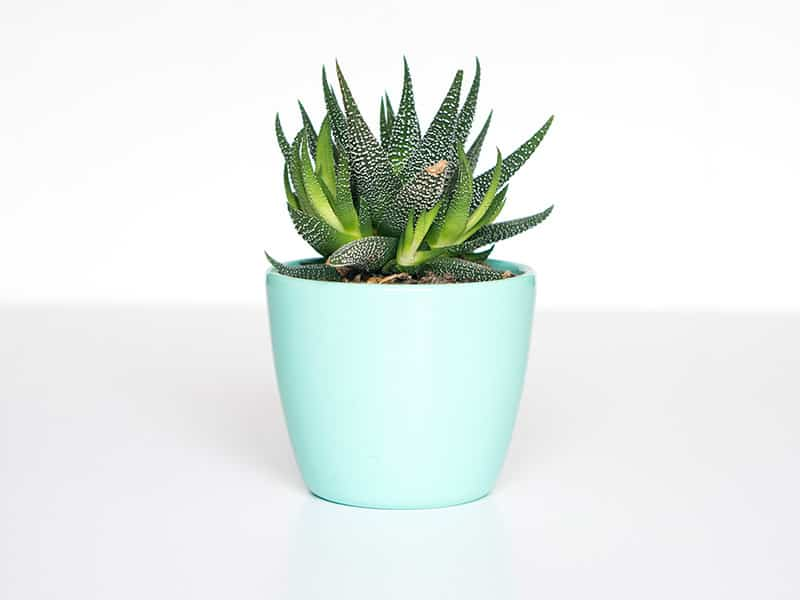
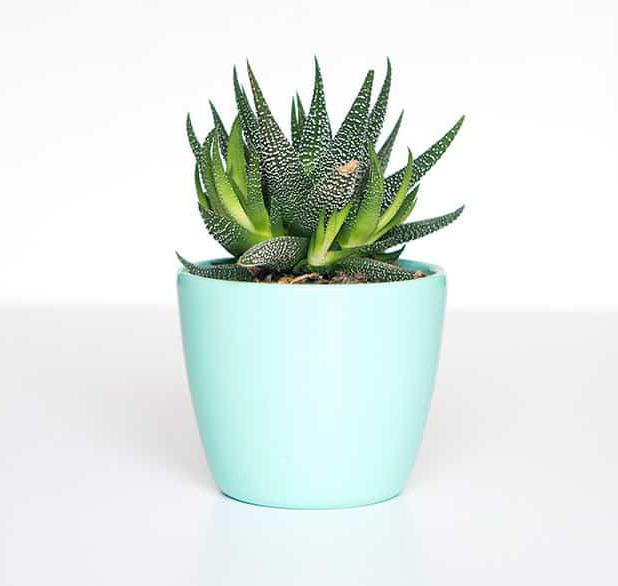
adding styling to directory menu

Changed region(s): [[0.2767, 0.0922, 0.7686, 0.8908]]

diff --git a/src/components/hompage/directory-menu/directory-menu.styles.js b/src/components/hompage/directory-menu/directory-menu.styles.js
@@ -9,28 +9,66 @@ export const DirectoryMenuCont = styled.div`
   justify-content: center;
   align-items: center;
 
+  & .half-container-right {
+    width: 50%;
+    height: 100%;
+
+    &:hover {
+
+      width: 70%;
+      transition: all 30s cubic-bezier(0.25, 0.45, 0.45, 0.95);
+
+      .half-container-left {
+        width:  30%;
+        transition: all 30s cubic-bezier(0.25, 0.45, 0.45, 0.95);
+      }
+
+
+      .container-right {
+        width: 600px;
+        transition: all 30s cubic-bezier(0.25, 0.45, 0.45, 0.95);
+      }
+      
+      .container-left {
+        width: 1px;
+        transition: all 30s cubic-bezier(0.25, 0.45, 0.45, 0.95);
+      }
+
+    
+    }
+  }
+
+  & .half-container-left {
+    width: 50%;
+    height: 100%;
+
+    &:hover {
+
+      .container-left {
+        width: 600px;
+        transition: all 30s cubic-bezier(0.25, 0.45, 0.45, 0.95);
+      }
+
+      .container-right {
+        width: 1px;
+        transition: all 30s cubic-bezier(0.25, 0.45, 0.45, 0.95);
+      }
+
+
+    }
+  }
 `;
 
-export const BackgroundImageCont = styled.div`
+export const BackgroundImageCont = styled.img`
   height: 100%;
-  width: 35%;
+  /* width: 36vw; */
   overflow: hidden;
-  background-position: center;
+  ${({side}) => side}: 0;
+  position: absolute;
+  width: 600px;
+  /* background-position: ${({side}) => side};
   background-size: cover;
-  background-image: ${({ imageUrl }) => `url(${imageUrl})`};
-
-
-  /* &:hover {
-    
-    &.background-image {
-      transform: scale(1.01);
-      transition: transform 20s cubic-bezier(0.25, 0.45, 0.45, 0.95);
-    }
-
-    &.content {
-      opacity: 0.9;
-    }
-  } */
+  background-image: ${({ imageUrl }) => `url(${imageUrl})`}; */
 `;
 
 export const ContentCont = styled.div`
@@ -59,3 +97,12 @@ export const SubtitleCont = styled.span`
   font-size: 16px;
   margin-bottom: 20px;
 `;
+
+export const BackgroundImageContainersCont = styled.div`
+  width: 300px;
+  height: 100%;
+  overflow: hidden;
+  position: relative;
+  margin-${({side}) => side}: auto;
+`;
+

diff --git a/src/components/hompage/directory-menu/directory-menu.component.jsx b/src/components/hompage/directory-menu/directory-menu.component.jsx
@@ -2,27 +2,35 @@ import React from 'react';
 
 import CustomButton from '../../custom-button/custom-button.component';
 
-import indoor from '../../../assets/half-potted-plant53.png';
-import outdoor from '../../../assets/half-potted-plant62.png'
+import indoor from '../../../assets/potted-plant5.jpg';
+import outdoor from '../../../assets/potted-plant6.jpg'
 
-import { DirectoryMenuCont, BackgroundImageCont, ContentCont, TitleCont, SubtitleCont } from './directory-menu.styles';
+import { DirectoryMenuCont, BackgroundImageContainersCont, BackgroundImageCont, ContentCont, TitleCont, SubtitleCont } from './directory-menu.styles';
 
 const DirectoryMenu = (props) => {
   return ( 
     <DirectoryMenuCont>
-        <BackgroundImageCont className='background-image' imageUrl={indoor} />
+        <div className='half-container-left'>
+        
+        <BackgroundImageCont side='left' className='background-image' src={indoor} />
         <ContentCont className='content' side='right'>
           <TitleCont>Indoor plants</TitleCont>
           <SubtitleCont>Lorem ipsum dolor sit amet consectetur adipisicing elit. Rem, vitae. Alias odit unde fuga quam veritatis quidem, magni nobis natus fugit rem sequi.</SubtitleCont>
           <CustomButton>SHOP NOW</CustomButton>
         </ContentCont>
 
-        <BackgroundImageCont className='background-image' imageUrl={outdoor} />
+        </div>
+
+        <div className='half-container-right'>
+
+        <BackgroundImageCont side='right' className='background-image' src={outdoor} />
         <ContentCont className='content' side='left'>
           <TitleCont>Outdoor plants</TitleCont>
           <SubtitleCont>Lorem ipsum dolor sit amet consectetur adipisicing elit. Rem, vitae. Alias odit unde fuga quam veritatis quidem, magni nobis natus fugit rem sequi.</SubtitleCont>
           <CustomButton>SHOP NOW</CustomButton>
         </ContentCont>
+
+        </div>
     </DirectoryMenuCont>
   );
 }

diff --git a/src/components/menu-item/menu-item.styles.js b/src/components/menu-item/menu-item.styles.js
@@ -1,20 +1,42 @@
 import styled from 'styled-components';
 
 export const MenuItemCont = styled.div`
-  height: 400px;
+  height: 500px;
   width: 22vw;
   display: flex;
   flex-direction: column;
   align-items: center;  
+  
+  &:hover {
+    cursor: pointer;
+    
+    & .background-image {
+      transform: scale(1.1);
+      transition: all 3s cubic-bezier(0.25, 0.45, 0.45, 0.95);
+      opacity: 0.7;
+    }
+    
+    & .background-image-cont {
+      background-color: green;
+      /* transition: background-color 1s cubic-bezier(0.25, 0.45, 0.45, 0.95); */
+    } 
+  }
+`;
+
+export const ImageContainerCont = styled.div`
+  width: 100%;
+  height: 95%;
+  margin-bottom: 5px;
+  overflow: hidden;
+  border-radius: 8px;
 `;
 
 export const ImageCont = styled.div`
   background-image: ${({imageUrl}) => `url(${imageUrl})`};
   background-position: center;
   background-size: cover;
+  height: 100%;
   width: 100%;
-  height: 95%;
-  margin-bottom: 5px;
 `;
 
 export const ItemFooterCont = styled.div`

diff --git a/src/components/menu-item/menu-item.component.jsx b/src/components/menu-item/menu-item.component.jsx
@@ -1,15 +1,14 @@
 import React from 'react';
 
-import { MenuItemCont, ImageCont, ItemFooterCont } from "./menu-item.styles";
+import { MenuItemCont, ImageContainerCont, ImageCont, ItemFooterCont } from "./menu-item.styles";
 
-const MenuItem = (item) => {
-  const { id, name, price, imageUrl } = item;
+const MenuItem = ({item: {id, imageUrl, name, price}}) => {
   return (
     <MenuItemCont>
-      <ImageCont imageUrl={imageUrl} />
+      <ImageContainerCont className='background-image-cont'><ImageCont className='background-image' imageUrl={imageUrl} /></ImageContainerCont>
       <ItemFooterCont>
         <span className='name'>{name}</span>
-        <span className='price'>{price}</span>
+        <span className='price'>£{price}</span>
       </ItemFooterCont>
     </MenuItemCont>
   ); 

diff --git a/src/components/collection-preview/collection-preview.component.jsx b/src/components/collection-preview/collection-preview.component.jsx
@@ -2,20 +2,21 @@ import React from 'react';
 
 import MenuItem from '../menu-item/menu-item.component';
 
+import { CollectionPreviewCont, TitleCont, PreviewCont } from "./collection-preview.styles";
+
 const CollectionPreview = ({ title, items }) => {
-  console.log(items)
   return ( 
-    <div className='collection-preview'>
-      <h1>{title}</h1>
-      <div className='preview'>
+    <CollectionPreviewCont>
+      <TitleCont>{title}</TitleCont>
+      <PreviewCont>
         {items
-          .filter((item, idx) => idx < 4)
+          .filter((item, idx) => idx < 3)
           .map(item => (
             <MenuItem key={item.id} item={item}>{item.name}</MenuItem>
           ))
         }
-      </div>
-    </div>
+      </PreviewCont>
+    </CollectionPreviewCont>
   );
 }
  

diff --git a/src/pages/collections/collections.component.jsx b/src/pages/collections/collections.component.jsx
@@ -2,6 +2,8 @@ import React, {Component} from 'react';
 
 import CollectionPreview from '../../components/collection-preview/collection-preview.component';
 
+import { CollectionPageCont } from './collections.styles'
+
 import SHOP_DATA from './shop.data';
 
 class CollectionPage extends Component {
@@ -15,13 +17,13 @@ class CollectionPage extends Component {
     const { collections } = this.state;
     console.log(collections)
     return ( 
-      <div className='collection-page'>
+      <CollectionPageCont>
         {
           collections.map(({ id, ...otherCollectionProps}) => (
             <CollectionPreview key={id} {...otherCollectionProps} />
           ))
         }
-      </div>
+      </CollectionPageCont>
     );
   }
 }

diff --git a/src/components/collection-preview/collection-preview.styles.js b/src/components/collection-preview/collection-preview.styles.js
@@ -1,0 +1,18 @@
+import styled from 'styled-components';
+
+export const CollectionPreviewCont = styled.div`
+
+`;
+
+export const TitleCont = styled.h1`
+  width: 90%;
+  padding-top: 40px;
+  margin: auto;
+`;
+
+export const PreviewCont = styled.div`
+  display: flex; 
+  width: 90%;
+  justify-content:space-between;
+  margin: 40px auto ;
+`;

diff --git a/src/components/header/header.styles.js b/src/components/header/header.styles.js
@@ -14,6 +14,13 @@ export const HeaderContainer = styled.div`
   box-shadow: 0 0.0625rem 0.25rem 0 rgba(61,66,80,.18);
   background-color: #fefefe;
   border-bottom: 1px solid grey;
+  position: fixed;
+  top: 0;
+  left: 0;
+  right: 0;
+  max-width: 1700px;
+  margin: auto;
+  z-index:20;
 `;
 
 export const LogoContainer = styled(Link)`

diff --git a/src/App.css b/src/App.css
@@ -1,5 +1,7 @@
 * {
   box-sizing: border-box;
+  margin: 0;
+  padding: 0;
 }
 
 body {
@@ -20,4 +22,8 @@ body {
 a {
   text-decoration: none;
   color: black;
+}
+
+.app:nth-child(1) {
+  margin-top: 10vh;
 }

diff --git a/src/pages/collections/collections.styles.jsx b/src/pages/collections/collections.styles.jsx
@@ -1,0 +1,5 @@
+import styled from 'styled-components';
+
+export const CollectionPageCont = styled.div`
+  background-color: #fefefe;
+`;
